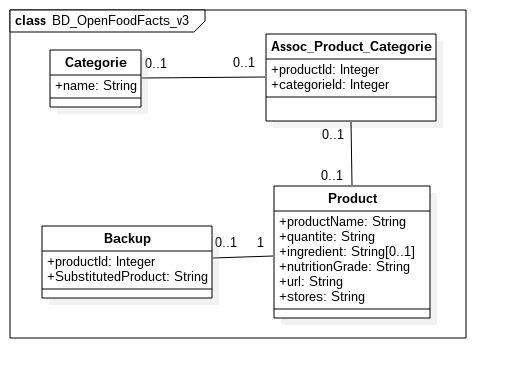
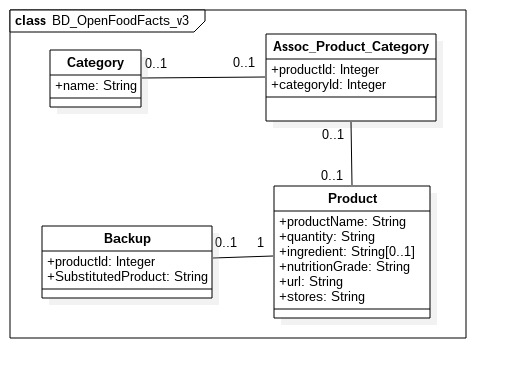
error correction and edit registration purebeurre_client.py

diff --git a/purebeurre_client.py b/purebeurre_client.py
@@ -26,7 +26,7 @@ def parse_arguments():
 
 def header():
     """
-    Header of the programm in the console
+    Header of the program in the console
     """
     os.system("clear")
     print("\n   ~~~~~~~~~~~~~~~~~~~~~~~~~~~~~~~~~~~~~~~~~~~~~~~~~~~~~~~\n"
@@ -42,9 +42,9 @@ def list_categories():
         :return: returns the number that the user has chosen
     """
 
-    # list of categories of the categorie table
+    # list of categories of the category table
     cols = "*"
-    tabCat = "categorie ORDER BY name"
+    tabCat = "category ORDER BY name"
     categories = db.select(cols, tabCat)
 
     while 1:
@@ -103,16 +103,15 @@ def substitute_products(product):
     values = [catName, prodGrade]
 
     # list of substitute products
-    cols = "p.id,p.product_name,p.quantite,p.ingredient,p.url,p.stores"
+    cols = "p.id,p.product_name,p.quantity,p.ingredient,p.url,p.stores"
     condition = Glob.condAssocCat + " AND c.name=%s AND p.nutrition_grade=%s"
     subProducts = db.select(cols, Glob.tabAssocCat, condition, True, values)
 
     nb = 0
-    subBackup = [subProducts[nb][0], prodName]
     while 1:
         desc_product(subProducts[nb][1:], prodName)
         print("Listes des options:\n"
-              "  1 - Produit de substitution suivant\n"
+              "  1 - Produit de substitution suivant...\n"
               "  2 - Enregistrez cet aliment de substitution ?\n"
               "  3 - Pour retournez au menu principale\n")
         entry = input("Entrez le numéro de votre choix : ")
@@ -123,6 +122,7 @@ def substitute_products(product):
                 input("\nAppuyez sur une touche pour revenir au premier produit de substitution... ")
                 nb = 0
         if entry == "2":
+            subBackup = [subProducts[nb][0], prodName]
             list_backup(subBackup)
             break
         elif entry == "3":
@@ -138,9 +138,9 @@ def desc_product(infoSub, subName):
     name, quantity, ingredients, url, stores = infoSub
     os.system("clear")
     print(
-        "\n##########################################################################\n\n"
-        "  Proposition produit de substitution pour '{}':\n"
-        "\n##########################################################################\n\n"
+        "\n   ##########################################################################\n\n"
+        "     Proposition produit de substitution pour '{}':\n"
+        "\n   ##########################################################################\n\n"
         " * Nom : {}\n"
         " * Quantité : {}\n"
         " * Ingredients : {}\n"
@@ -155,7 +155,7 @@ def list_backup(subBackup=None):
         :return: Displays in the console the list
     """
     if subBackup is None:
-        cols = "b.id,b.substituted_product,p.id,p.product_name,p.quantite,p.ingredient,p.url,p.stores"
+        cols = "b.id,b.substituted_product,p.id,p.product_name,p.quantity,p.ingredient,p.url,p.stores"
         condition = Glob.condBackProd
         backups = db.select(cols, Glob.tabBackProd, condition, True)
         while 1:
@@ -167,7 +167,7 @@ def list_backup(subBackup=None):
                 backId, subProd, prodId, ProdName = back[:4]
                 nb += 1
                 numbers.append(str(nb))
-                print("  {} - '{}' substitut de : '{}'".format(nb, subProd, ProdName))
+                print("  {} - '{}' substitut de : '{}'".format(nb, ProdName, subProd))
             selectId = input("\nEntrez le numéro de votre choix ou <Enter> pour le menu principal : ")
             if selectId == "":
                 break
@@ -187,7 +187,7 @@ def del_backup():
     """
     Displays the list of registered substitute products to be erased
     """
-    cols = "b.id,b.substituted_product,p.id,p.product_name,p.quantite,p.ingredient,p.url,p.stores"
+    cols = "b.id,b.substituted_product,p.id,p.product_name,p.quantity,p.ingredient,p.url,p.stores"
     condition = Glob.condBackProd
     backups = db.select(cols, Glob.tabBackProd, condition, True)
     while 1:

diff --git a/update_db.py b/update_db.py
@@ -73,7 +73,7 @@ def data_create():
     col = []
     dataOffName = []
     tableProd = "product"
-    tableCat = "categorie"
+    tableCat = "category"
     for colDb, name in Glob.converDb[tableProd]:
         if name is not None:
             dataOffName.append(name)
@@ -84,22 +84,22 @@ def data_create():
 
     nbLineBefore = db.select("count(*)", tableProd)[0][0]
 
-    for categorie in Glob.converDb[tableCat]:
+    for category in Glob.converDb[tableCat]:
         condCat = " name=%s"
-        catId = db.select("id", tableCat, condCat, True, [categorie])
+        catId = db.select("id", tableCat, condCat, True, [category])
         if len(catId) == 0:
-            idCategorie = db.insert(tableCat, [categorie], "name", True)
+            idCategory = db.insert(tableCat, [category], "name", True)
         else:
-            idCategorie = catId[0][0]
-            log.info("*** Categorie '%s' existe avec l'ID : %s ***" % (categorie, idCategorie))
-        results = api.get_request(categorie)
+            idCategory = catId[0][0]
+            log.info("*** Categorie '%s' existe avec l'ID : %s ***" % (category, idCategory))
+        results = api.get_request(category)
         for nbProduct in range(len(results) - 1):
             result = results[nbProduct]
             valProduct = api.convert_data(result, dataOffName)
 
             # Product information with verbose option
             log.info("*** PRODUIT N°%s CATEGORIE : '%s' ***\n"
-                     "Product_name : %s\n", str(nbProduct + 1), categorie, result['product_name'])
+                     "Product_name : %s\n", str(nbProduct + 1), category, result['product_name'])
             log.debug("Valeurs du produit : %s\n", valProduct)
 
             condition = " product_name=%s"
@@ -109,7 +109,7 @@ def data_create():
             else:
                 idProduct = listId[0][0]
                 log.info("*** Produit '%s' existe avec l'ID : %s ***" % (result['product_name'], idProduct))
-            db.insert("assoc_product_categorie", [idProduct, idCategorie])
+            db.insert("assoc_product_category", [idProduct, idCategory])
 
     nbLineAfter = db.select("count(*)", tableProd)[0][0]
     print("  - {} produits ajoutés\n"

diff --git a/package/glob.py b/package/glob.py
@@ -12,8 +12,8 @@ class Glob:
     confDbFile = 'database_conf'
 
     # Constants for SQL requests
-    tabAssocCat = "product AS p, assoc_product_categorie AS a, categorie AS c"
-    condAssocCat = "p.id=a.product_id AND c.id=a.categorie_id"
+    tabAssocCat = "product AS p, assoc_product_category AS a, category AS c"
+    condAssocCat = "p.id=a.product_id AND c.id=a.category_id"
     tabBackProd = "backup AS b, product AS p"
     condBackProd = "b.product_id=p.id"
 
@@ -35,21 +35,21 @@ class Glob:
     converDb = {
         'product': [
             ('product_name', 'product_name'),
-            ('quantite', 'quantity'),
+            ('quantity', 'quantity'),
             ('ingredient', 'ingredients_text_with_allergens_fr'),
             ('nutrition_grade', 'nutrition_grades'),
             ('url', 'url'),
             ('stores', 'stores_tags')
         ],
-        'categorie': (
+        'category': (
             'Boissons gazeuses', 'Boissons chaudes', 'Boissons non sucrées', 'Laits', 'Yaourts', 'Fromages',
             'Plats préparés', 'Céréales et pommes de terre', 'Biscuits et gateaux', 'Desserts', 'Confiseries',
             'Légumes et dérivés', 'Epicerie', 'Poissons', 'Apéritif', 'Surgelés', 'Conserves', 'Petit-déjeuners',
             'Sauces', 'Produit de la mer', 'Condiments', 'Plats à base de viande', 'Bonbons', 'Vins'
         ),
-        'assoc_product_categorie': (
+        'assoc_product_category': (
             'product_id',
-            'categorie_id'
+            'category_id'
         ),
         'backup': (
             'id',

diff --git a/README.md b/README.md
@@ -18,7 +18,7 @@ Create a database and a proprietary user account for this database.
 
 Ubuntu example:
 
-    $ sudo -i -u prosgres
+    $ sudo -i -u postgres
     $ createuser -P --interactive <user_name>
     Enter password for new role:
     Enter if again:
